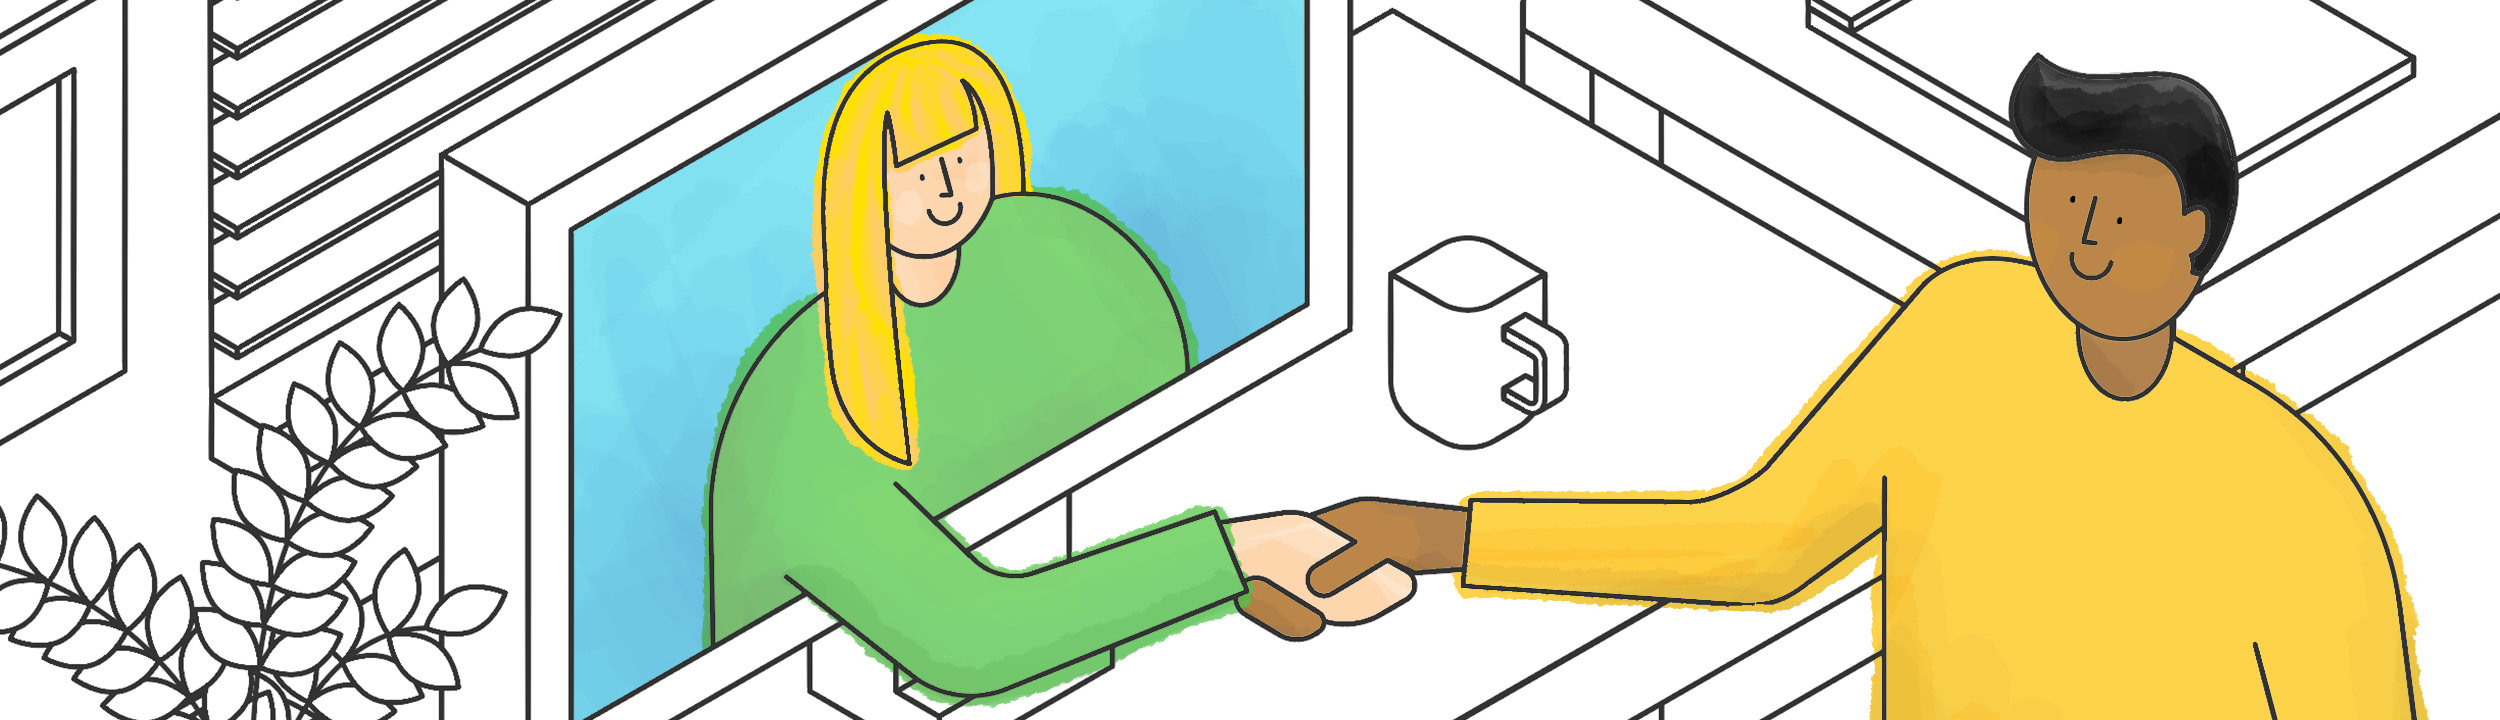
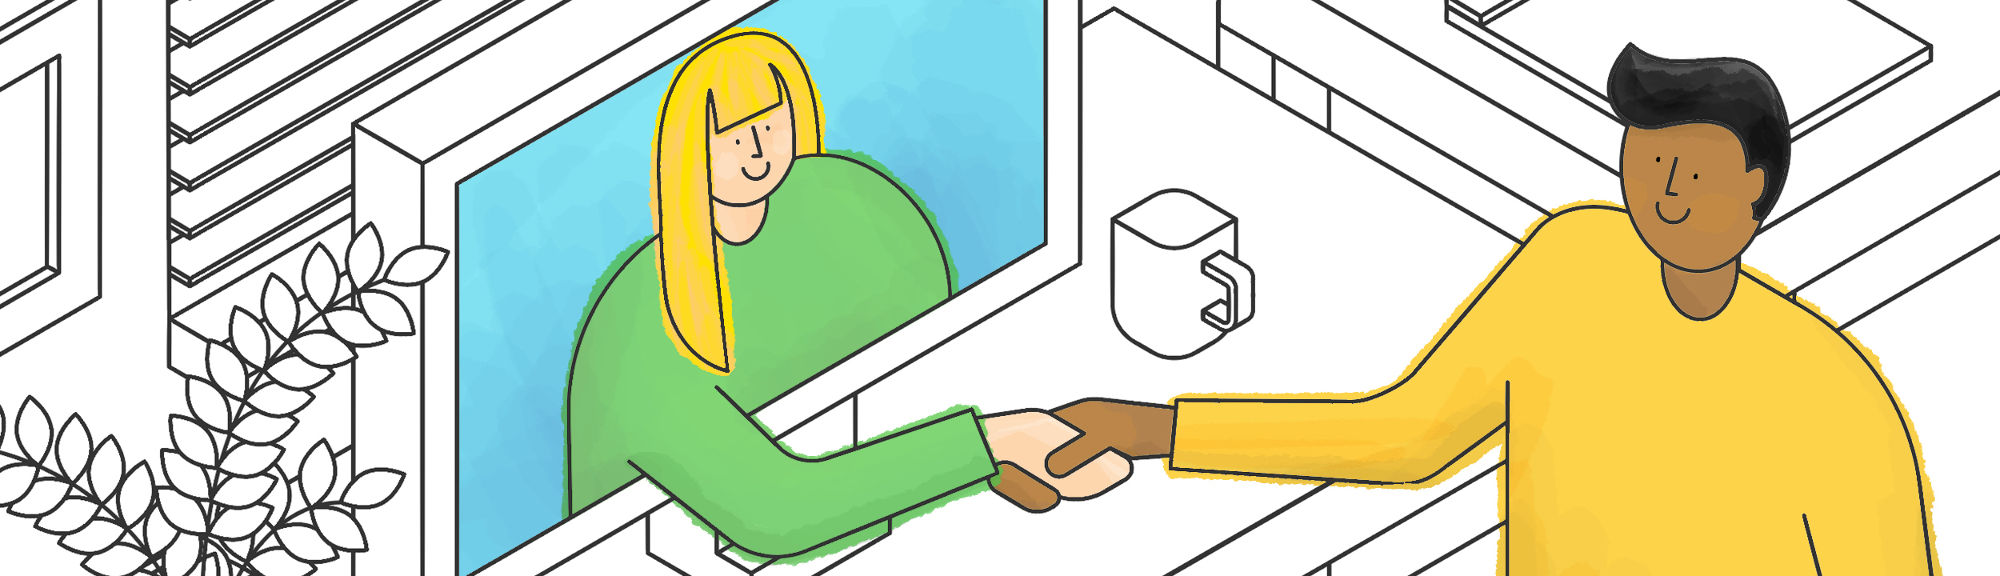
Add (fixed) homepage welcome image.

Changed region(s): [[0.341, 0.0625, 0.372, 0.0938]]

diff --git a/jekyll/index.html b/jekyll/index.html
@@ -7,6 +7,7 @@ title: CircleCI Documentation
 	<h1>CircleCI Documentation</h1>
 <div class="category-section">
 </div>
+<img class="welcome" src="{{ site.baseurl }}/assets/img/docs/VideoMeet-v2.jpg" alt="CircleCI Docs Welcoming Image" />
 <div class="category-section">
 	<h1><a href="/docs/2.0/">2.0 Docs</a></h1>
 	  <p><a href="/docs/2.0/"><img src="{{ site.baseurl }}/assets/img/docs/2.0_image.png" alt="2.0 docs" height="300" width="500"></a></p>

diff --git a/jekyll/assets/css/main.scss b/jekyll/assets/css/main.scss
@@ -301,6 +301,10 @@ body.homepage{
 			font-size: 0.875rem;
 		}
 	}
+
+	img.welcome{
+		align-self: flex-start;
+	}
 }
 
 code {
